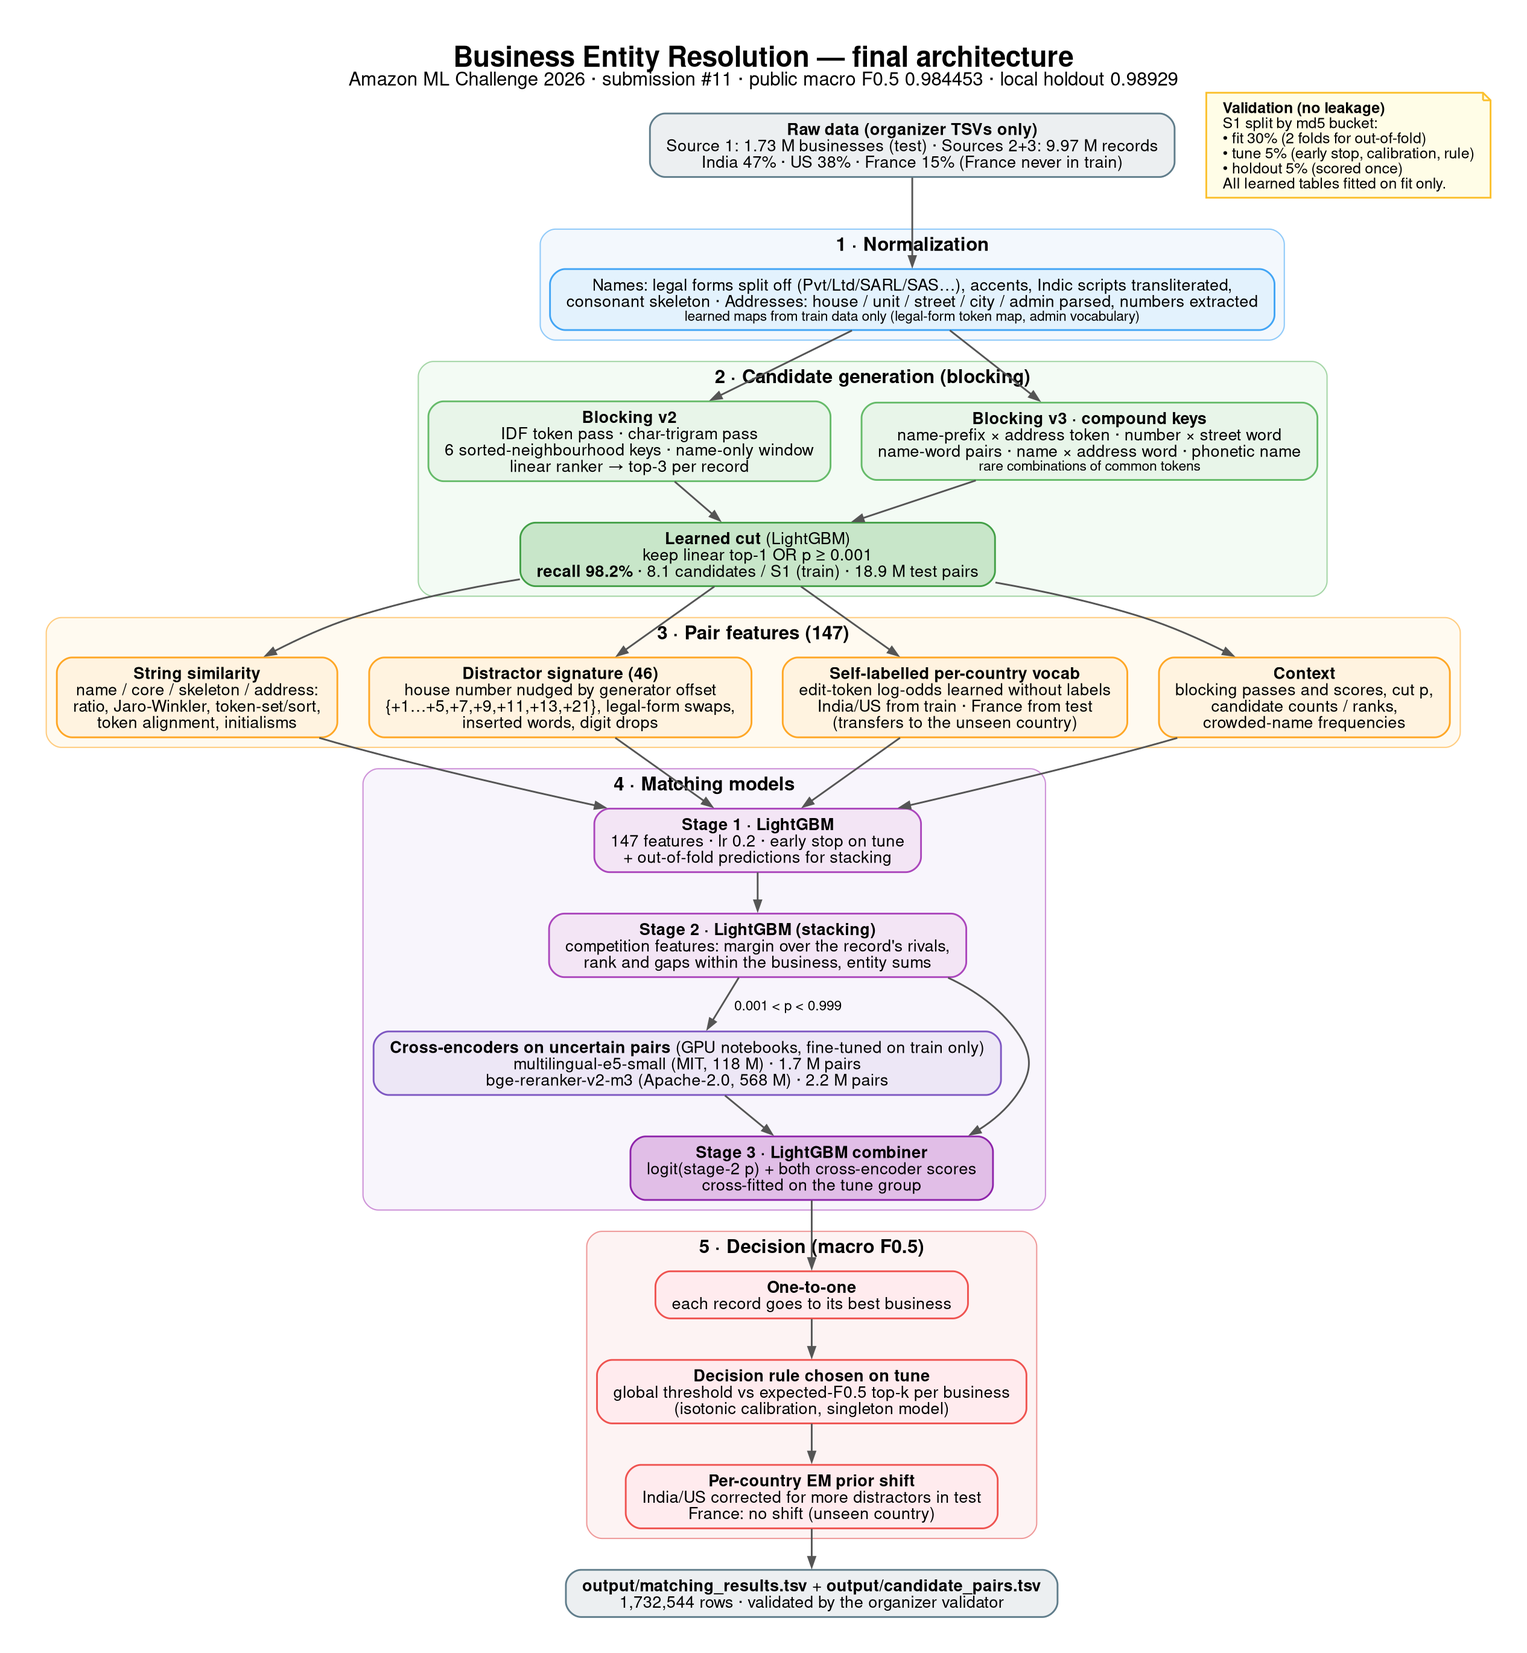
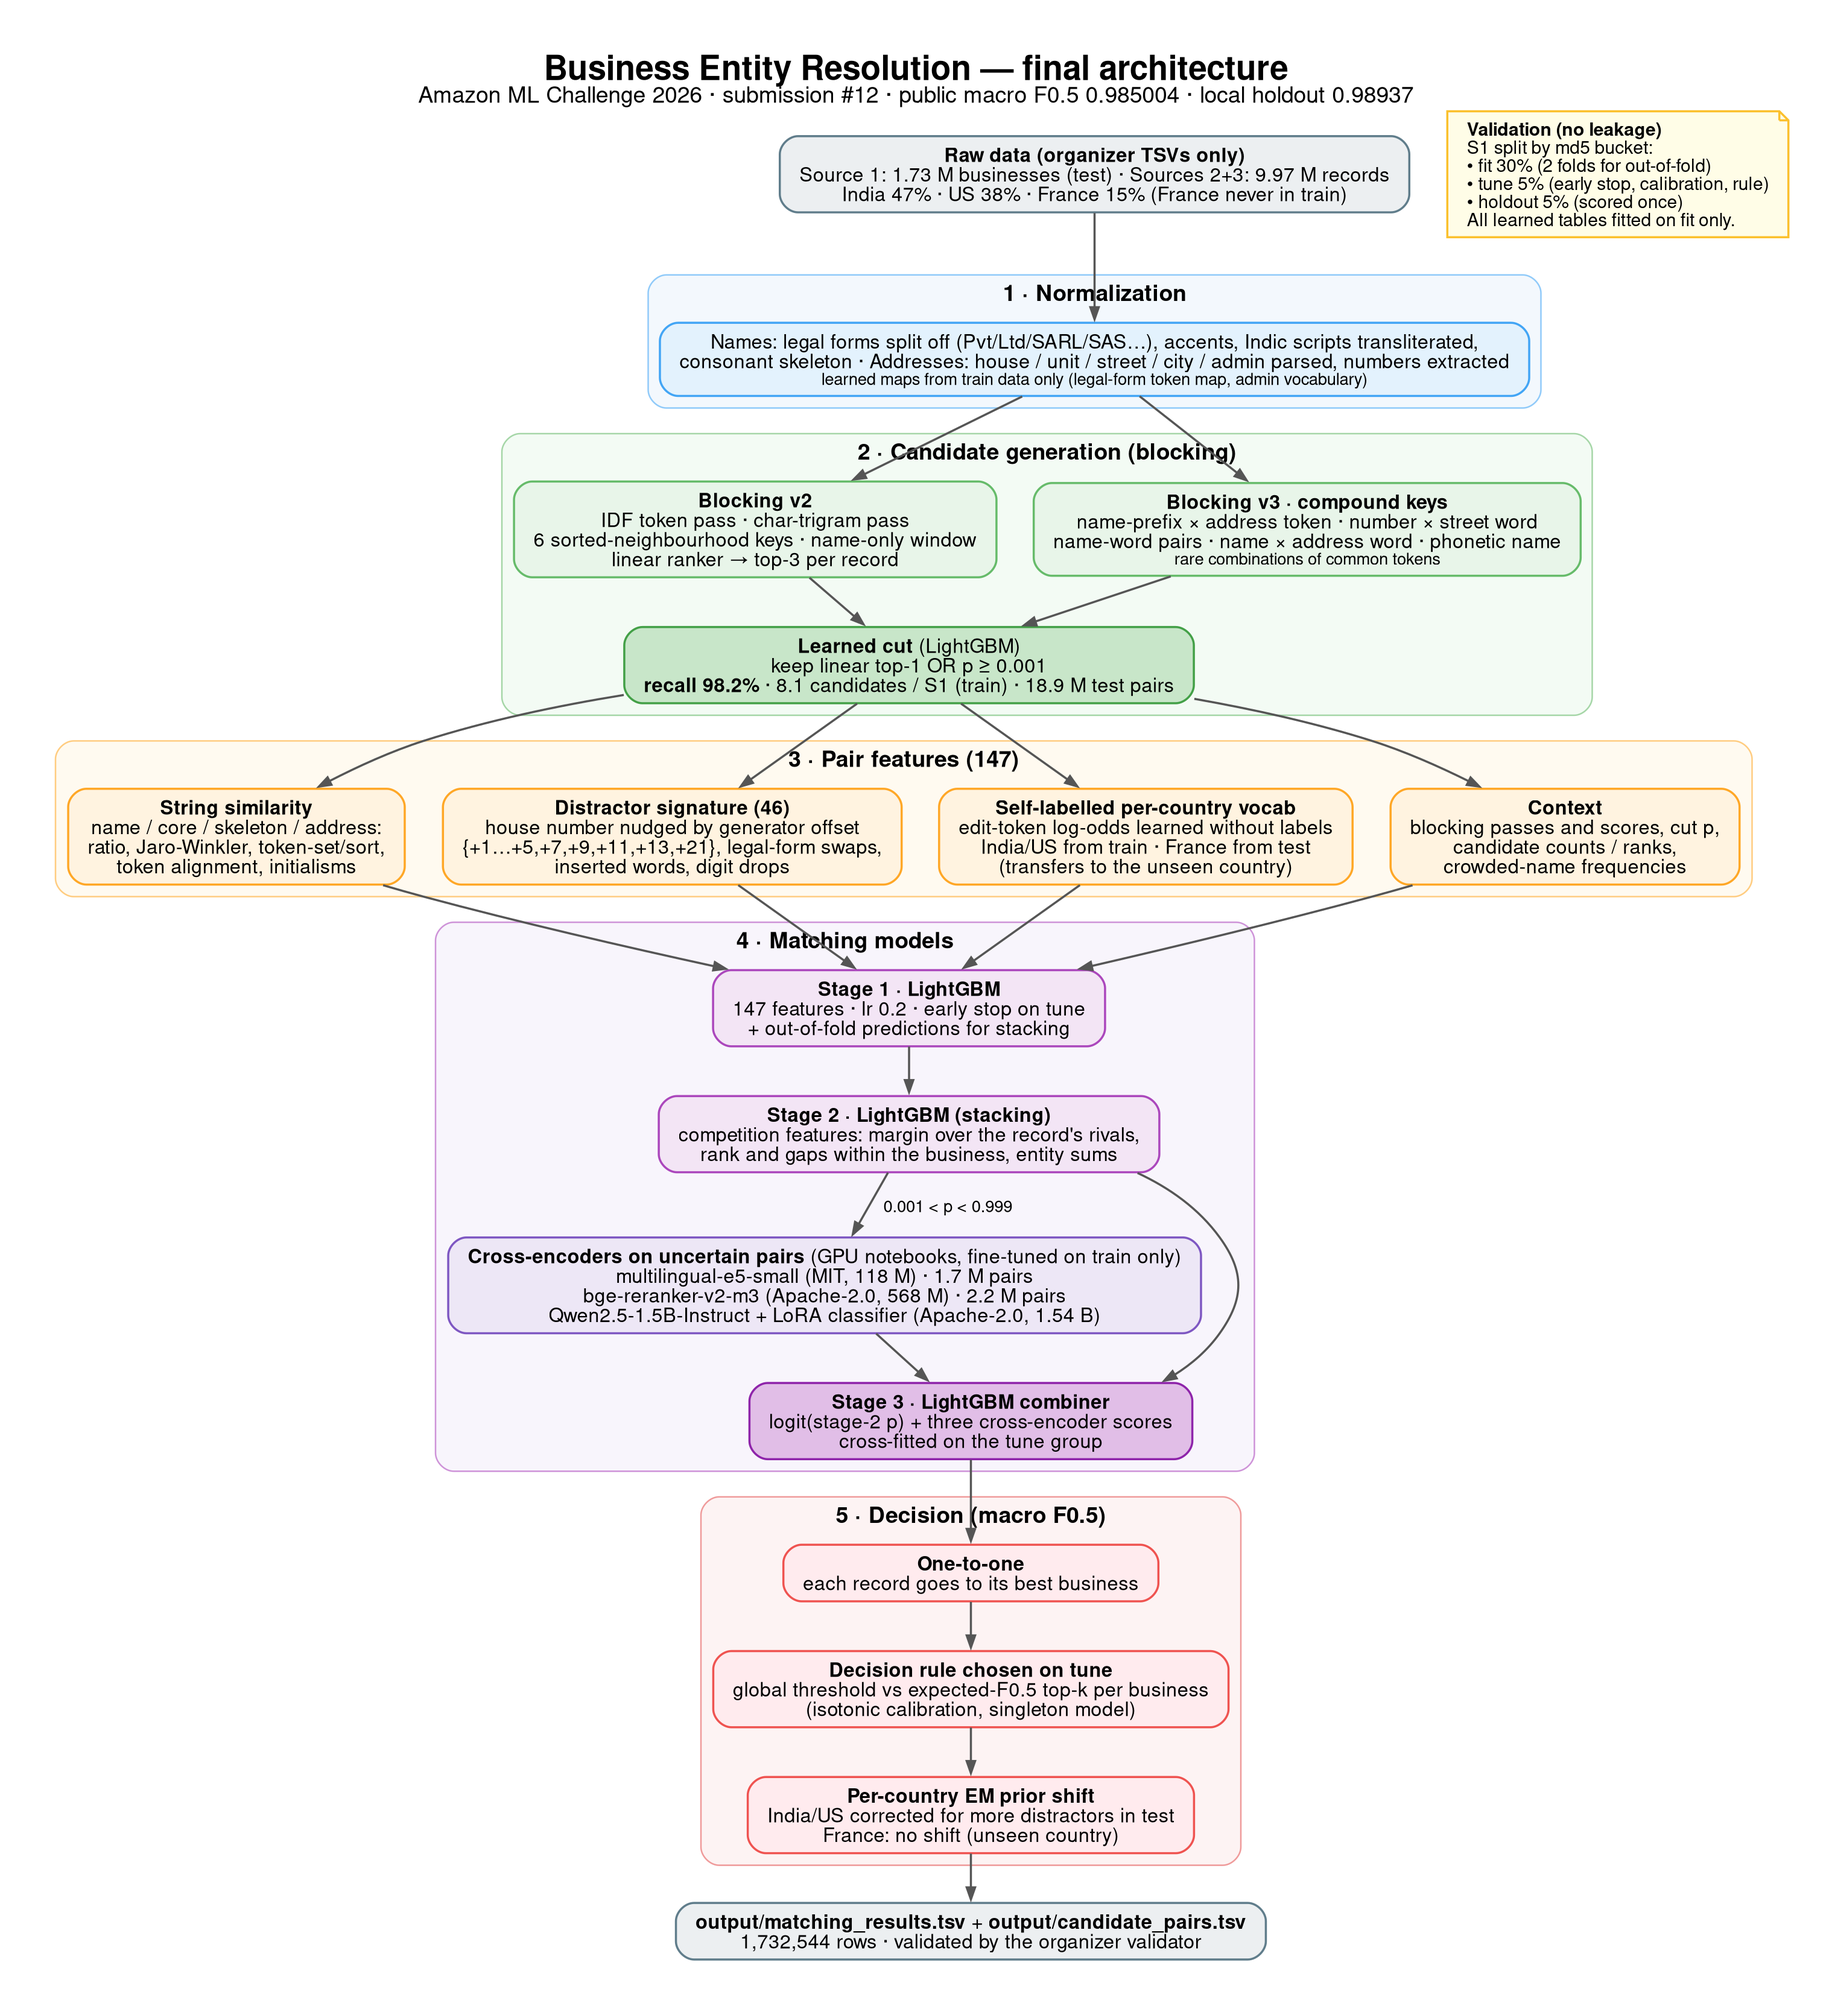
Docs, README and diagram updated to best submission #12 (e5+bge+qwen); log stage-3 context experiment (not adopted)

Changed region(s): [[0.0312, 0.031, 0.9676, 0.9927], [0.7803, 0.062, 0.9676, 0.1241], [0.7491, 0.031, 0.7803, 0.062]]

diff --git a/docs/METHODOLOGY.md b/docs/METHODOLOGY.md
@@ -11,7 +11,8 @@ We built a staged entity-resolution pipeline: rule-based normalization → multi
 passes, sorted-neighbourhood keys, compound-key passes and a learned candidate cut, 98.2% recall at ~8 candidates per
 Source-1 entity) → a two-stage LightGBM matcher over 147 hand-built pair features and out-of-fold "competition"
 context → a transformer cross-encoder (multilingual-e5-small, MIT, fine-tuned only on the provided train pairs)
-and a bge-reranker-v2-m3 cross-encoder (Apache-2.0) re-scoring the uncertain pairs → a macro-F0.5-optimal decision rule. Key innovations: reverse-engineering the dataset's
+a bge-reranker-v2-m3 cross-encoder (Apache-2.0) and a Qwen2.5-1.5B-Instruct LoRA classifier (Apache-2.0) re-scoring
+the uncertain pairs → a macro-F0.5-optimal decision rule. Key innovations: reverse-engineering the dataset's
 **distractor generator** (house numbers nudged by a fixed offset set, name edits from small vocabularies) into features,
 **self-labelled per-country vocabularies** that transfer to France (unseen in training) without labels, and a
 **leakage-free decision layer** tuned for macro F0.5 on a separate entity group.
@@ -94,8 +95,10 @@ the fit group only.
 - Stage 3: **cross-encoder** `intfloat/multilingual-e5-small` (MIT, 117.7 M parameters) fine-tuned for 2 epochs on
   725 k fit-group pairs (on a free Colab T4, in-notebook, no API); it re-scores the 1.7 M uncertain pairs
   (0.003 < p < 0.997). A second cross-encoder, `BAAI/bge-reranker-v2-m3` (Apache-2.0, 568 M; a multilingual reranker),
-  fine-tuned on 1 M fit-group pairs on a free GPU notebook, re-scores 2.2 M pairs (0.001 < p < 0.999). A small LightGBM
-  combines logit(stage-2 p) with both cross-encoder scores, cross-fitted on tune.
+  fine-tuned on 1 M fit-group pairs on a free GPU notebook, re-scores 2.2 M pairs (0.001 < p < 0.999). A third model, `Qwen/Qwen2.5-1.5B-Instruct` (Apache-2.0, 1.54 B) with
+  LoRA adapters (r = 16) and a classification head, is fine-tuned on 400 k fit-group pairs presented as
+  "Record A / Record B / same business?" and scores the pairs with 0.01 < p < 0.99. A small LightGBM combines
+  logit(stage-2 p) with the three cross-encoder scores, cross-fitted on tune (5 folds by S1).
 - All models are MIT/Apache-2.0 licensed and far below 8 B parameters.
 
 **Threshold selection method:** one-to-one assignment (each right record to its best S1), then a decision rule chosen
@@ -116,7 +119,7 @@ distractor rate (India/US); it is disabled for France, where it was measured har
 | v3 | compound-key blocking + learned cut, signature features | 0.9876 | 0.977648 |
 | v3 + French adaptation | transductive French vocabulary | — | 0.981323 |
 | v4 | self-labelled per-country vocabularies | 0.9879 | 0.982191 |
-| v5 | stage-2 entity features, initialisms | 0.9882 | [pending] |
+| v5 | stage-2 entity features, initialisms | 0.9882 | not uploaded |
 | v5 + cross-encoder | multilingual-e5-small stage 3 | 0.98918 | 0.984041 |
 | v5 + two cross-encoders | + bge-reranker-v2-m3 | 0.98929 | 0.984453 |
 | v5 + bge + Qwen | bge-reranker + Qwen2.5-1.5B LoRA | 0.98939 | 0.984756 |

diff --git a/code/business_entity_resolution/README.md b/code/business_entity_resolution/README.md
@@ -48,15 +48,16 @@ ber validate-output --check-ids          # organizer validator must print PASS
 
 # S7 cross-encoder stage 3 (D-028; GPU notebooks, packages in ce/requirements-gpu.txt)
 python code/business_entity_resolution/ce/export_bundle.py artifacts/runs/<run> <bundle_dir> 1500000 0.001 0.999
-#   run ce/ce_colab.ipynb (multilingual-e5-small) and ce/ce_kaggle_bge.ipynb (bge-reranker-v2-m3) on a GPU with the
-#   bundle; each writes ce_tune/ce_holdout/ce_test.parquet
-python code/business_entity_resolution/ce/stage3.py artifacts/runs/<run> <stage3_dir> e5=<e5_out> bge=<bge_out>
+#   run ce/ce_colab.ipynb (multilingual-e5-small), ce/ce_kaggle_bge.ipynb (bge-reranker-v2-m3) and
+#   ce/ce_kaggle_qwen.ipynb (Qwen2.5-1.5B-Instruct + LoRA, runs ce/qwen_ce.py) on a GPU with the bundle;
+#   each writes ce_tune/ce_holdout/ce_test.parquet
+python code/business_entity_resolution/ce/stage3.py artifacts/runs/<run> <stage3_dir> e5=<e5_out> bge=<bge_out> qwen=<qwen_out>
 ber --override code/business_entity_resolution/configs/predict_bigmem.yaml predict --run artifacts/runs/<run> --stage3 <stage3_dir>
 ber validate-output --check-ids
 ```
-The e5 bundle used band 0.003 < p < 0.997 (`export_bundle.py <run> <dir> 600000`), the bge bundle 0.001 < p < 0.999.
-The best leaderboard submission (#11, public 0.984453, local holdout 0.98929) is v5 (`ber train --name v5`) + stage 3
-with both cross-encoders.
+The e5 bundle used band 0.003 < p < 0.997 (`export_bundle.py <run> <dir> 600000`), the bge bundle 0.001 < p < 0.999,
+the Qwen bundle 0.01 < p < 0.99. The best leaderboard submission (#12, public 0.985004, local holdout 0.98937) is v5
+(`ber train --name v5`) + stage 3 with all three cross-encoders.
 
 `scripts/run_v4.sh all` runs S3 → S6 and freezes the submission (after S1, S2 and S2b); `scripts/run_v3.sh all` runs
 S2b. Each stage is resumable (`train --resume <run>`, `predict --resume`). `ber learn-logodds` (label-learned

diff --git a/docs/EXPERIMENTS.md b/docs/EXPERIMENTS.md
@@ -7,3 +7,4 @@
 | `20260926T063247_1a0d20f_99304c0b_v4` | expected_f | 0.9879 | 0.9865 / 0.9866 | 0.9794 | |
 | `20260926T070539_1f9ad5d_99304c0b_v4s` | expected_f | 0.9877 | 0.9863 / 0.9864 | 0.9793 | |
 | `20260926T114709_10acc83_99304c0b_v5` | expected_f | 0.9882 | 0.9862 / 0.9863 | 0.9783 | |
+| `stage3_all3ctx` (v5 + e5/bge/qwen stage 3 + per-S1 rank/gap context of each score; not adopted, +0.00004 = noise) | threshold | 0.98942 | | | |
